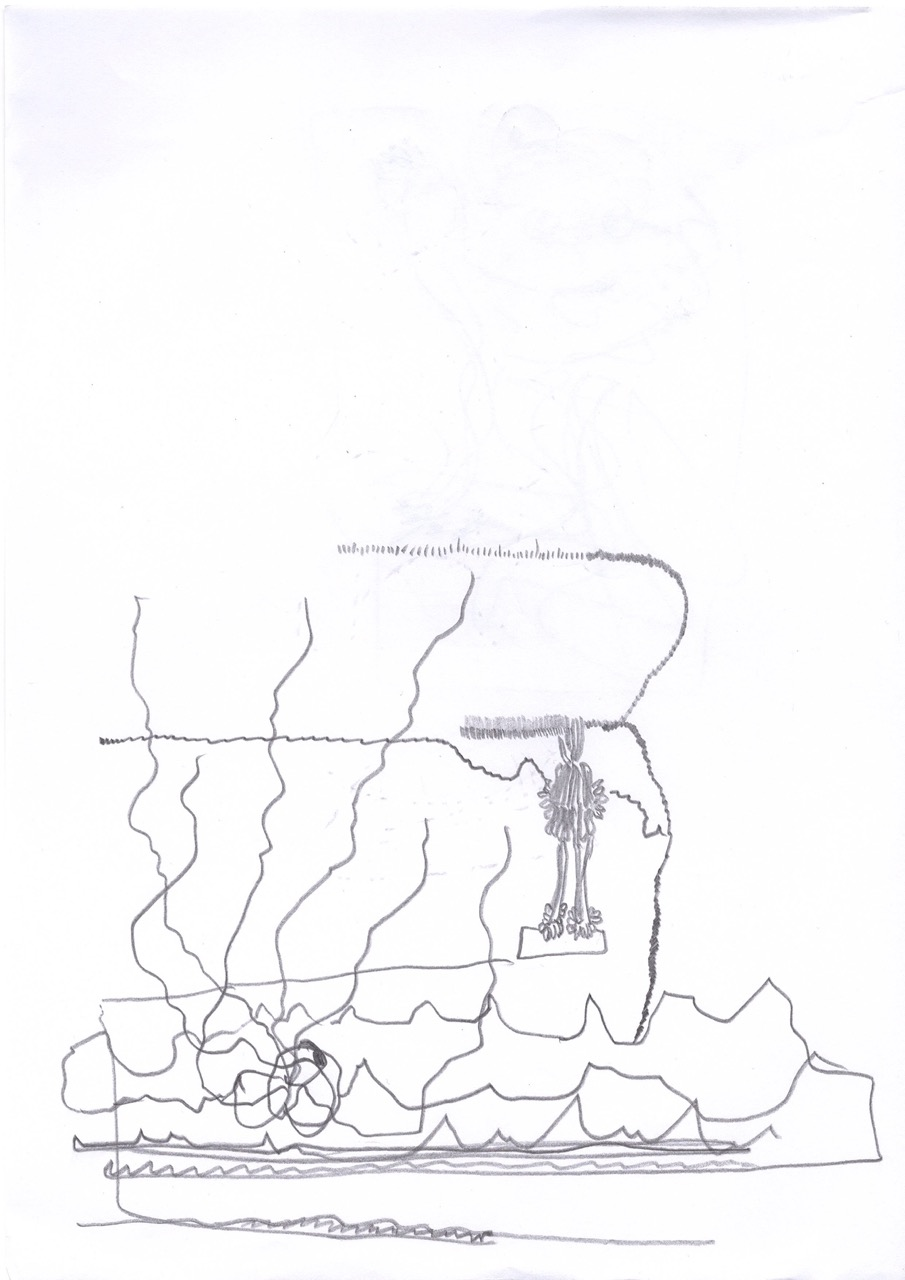
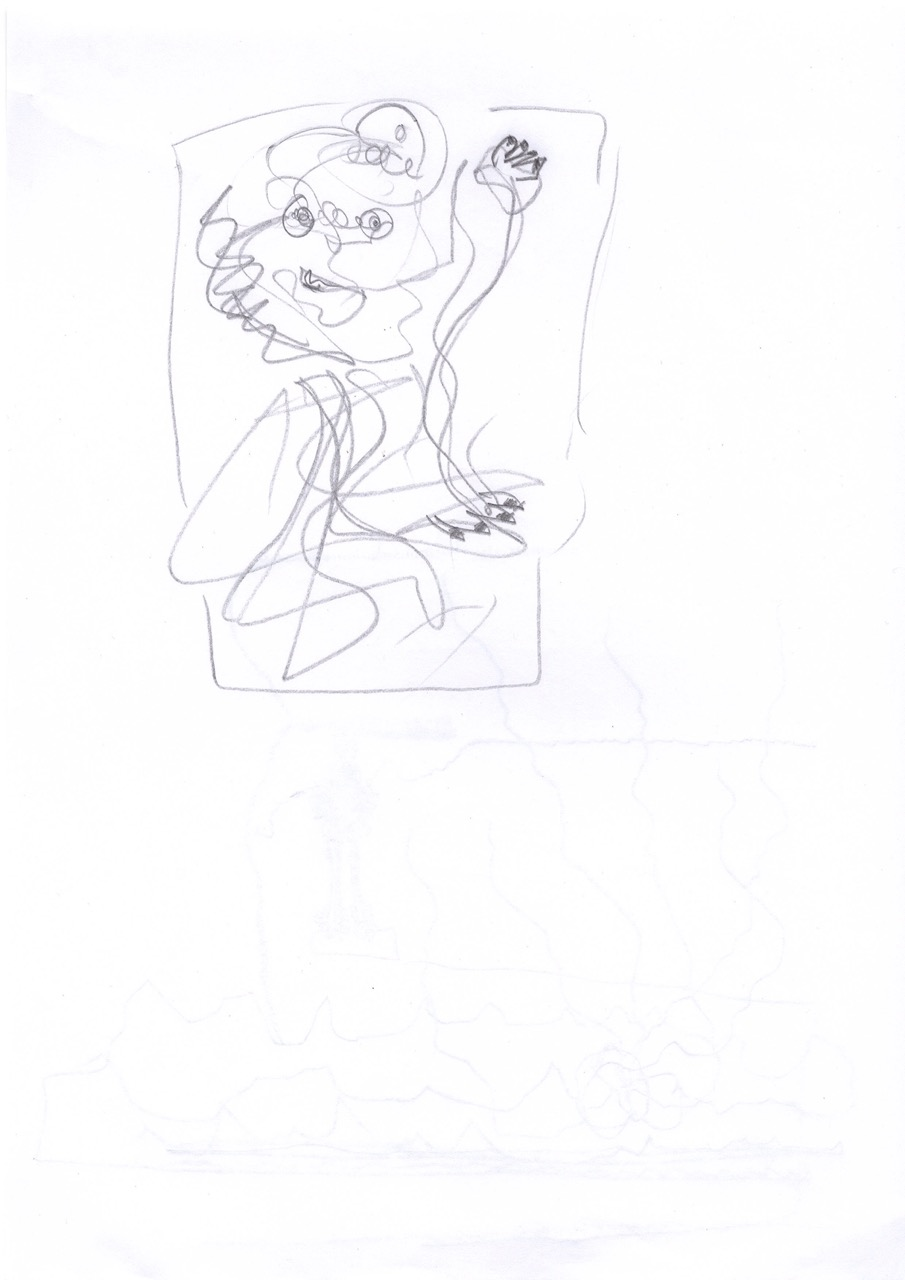
f

diff --git a/drawings.html b/drawings.html
@@ -1,30 +1,48 @@
 ---
 layout: default
-title: Drawings
+title: Drawings 
 ---
-
-<h1 class="project-title">Drawings</h1>
-
+<h1 class="project-title">Drawings - Overview</h1>
 <div id="preview-grid">
-
-{% assign items = site.drawings | sort: "date" | reverse %}
-
-{% for item in items %}
-    {% if item.thumbnail %}
-        <a href="{{ item.url }}" 
-           class="preview-item"
-           data-project="{{ item.url }}">
-            <div class="preview-image">
-                <img src="{{ item.thumbnail }}" loading="eager" alt="{{ item.title }}">
-            </div>
-            <div class="preview-title">
-                <em>{{ item.title }}</em>
-                {% if item.year %}
-                    <span class="year">, {{ item.year }}</span>
-                {% endif %}
-            </div>
-        </a>
+{% assign parents = site.projects
+   | where_exp: "item", "item.parent == nil"
+   | sort: "date"
+   | reverse %}
+{% assign global_index = 0 %}
+{% for parent in parents %}
+    {% assign children = site.projects
+        | where: "parent", parent.slug
+        | sort: "date" %}
+    {% if children.size > 0 %}
+        {% for child in children %}
+        {% assign global_index = global_index | plus: 1 %}
+<a href="{{ child.url }}" 
+class="preview-item {% if child.thumbnail_small %}preview-item--small{% endif %}"
+data-project="{{ child.url }}">
+<div class="preview-image">
+<img src="{{ child.thumbnail }}" 
+{% if global_index <= 3 %}loading="eager" fetchpriority="high"{% else %}loading="lazy"{% endif %}>
+</div>
+<div class="preview-title">
+<em>{{ child.title }}</em>{% if child.year %}<span class="year">, {{ child.year }}</span>{% endif %}
+</div>
+</a>
+        {% endfor %}
+    {% else %}
+        {% if parent.thumbnail %}
+        {% assign global_index = global_index | plus: 1 %}
+<a href="{{ parent.url }}" 
+class="preview-item {% if parent.thumbnail_small %}preview-item--small{% endif %}"
+data-project="{{ parent.url }}">
+<div class="preview-image">
+<img src="{{ parent.thumbnail }}" 
+{% if global_index <= 3 %}loading="eager" fetchpriority="high"{% else %}loading="lazy"{% endif %}>
+</div>
+<div class="preview-title">
+<em>{{ parent.title }}</em>{% if parent.year %}<span class="year">, {{ parent.year }}</span>{% endif %}
+</div>
+</a>
+        {% endif %}
     {% endif %}
 {% endfor %}
-
 </div>
